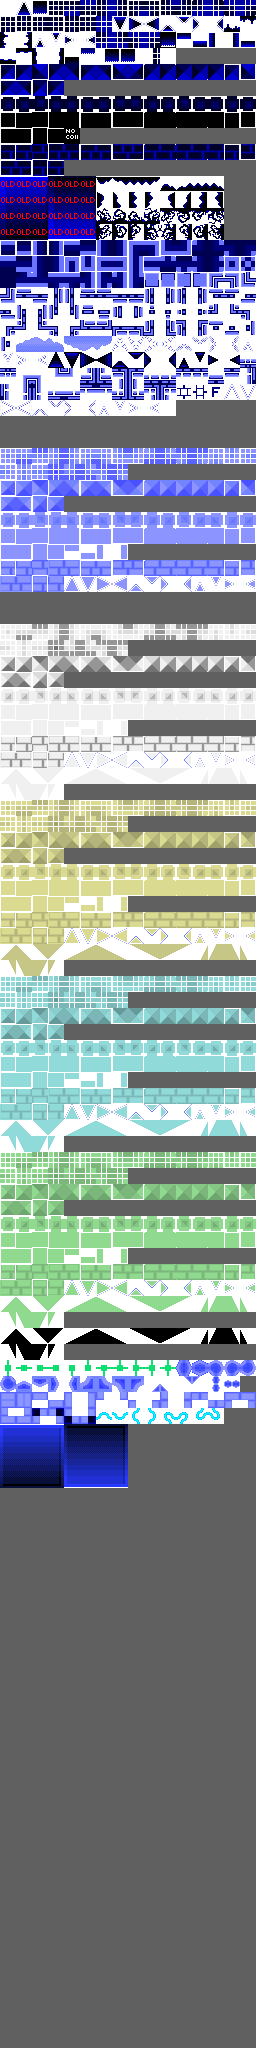
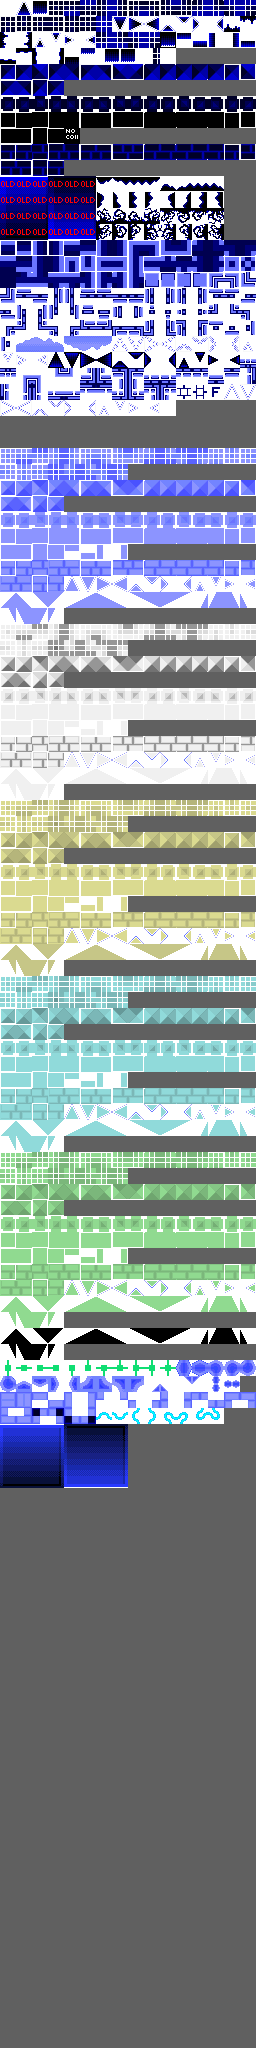
Add LBG slopes

Changed region(s): [[0.0, 0.2812, 1.0, 0.3125]]

diff --git a/src/metatiles.c b/src/metatiles.c
@@ -707,27 +707,27 @@ const SCR_ENTRY metatiles[][5] = {
     Metatile("LBG_MEDIUM_SPIKE_LEFT",   TILE(0x179, LBG_PAL, 0, 0), TILE(0x169, LBG_PAL, 0, 0), TILE(0x179, LBG_PAL, 0, V), TILE(0x169, LBG_PAL, 0, V), COL_MEDIUM_SPIKE_LEFT)
     Metatile("LBG_MEDIUM_SPIKE_RIGHT",  TILE(0x169, LBG_PAL, H, 0), TILE(0x179, LBG_PAL, H, 0), TILE(0x169, LBG_PAL, H, V), TILE(0x179, LBG_PAL, H, V), COL_MEDIUM_SPIKE_RIGHT)
 
-    Metatile("EMPTY",    TILE(0, 0, 0, 0), TILE(0, 0, 0, 0), TILE(0, 0, 0, 0), TILE(0, 0, 0, 0), COL_NONE) // 0x250
-    Metatile("EMPTY",    TILE(0, 0, 0, 0), TILE(0, 0, 0, 0), TILE(0, 0, 0, 0), TILE(0, 0, 0, 0), COL_NONE)
-    Metatile("EMPTY",    TILE(0, 0, 0, 0), TILE(0, 0, 0, 0), TILE(0, 0, 0, 0), TILE(0, 0, 0, 0), COL_NONE)
-    Metatile("EMPTY",    TILE(0, 0, 0, 0), TILE(0, 0, 0, 0), TILE(0, 0, 0, 0), TILE(0, 0, 0, 0), COL_NONE)
-    Metatile("EMPTY",    TILE(0, 0, 0, 0), TILE(0, 0, 0, 0), TILE(0, 0, 0, 0), TILE(0, 0, 0, 0), COL_NONE)
-    Metatile("EMPTY",    TILE(0, 0, 0, 0), TILE(0, 0, 0, 0), TILE(0, 0, 0, 0), TILE(0, 0, 0, 0), COL_NONE)
-    Metatile("EMPTY",    TILE(0, 0, 0, 0), TILE(0, 0, 0, 0), TILE(0, 0, 0, 0), TILE(0, 0, 0, 0), COL_NONE)
-    Metatile("EMPTY",    TILE(0, 0, 0, 0), TILE(0, 0, 0, 0), TILE(0, 0, 0, 0), TILE(0, 0, 0, 0), COL_NONE)
-    Metatile("EMPTY",    TILE(0, 0, 0, 0), TILE(0, 0, 0, 0), TILE(0, 0, 0, 0), TILE(0, 0, 0, 0), COL_NONE) // 0x258
-    Metatile("EMPTY",    TILE(0, 0, 0, 0), TILE(0, 0, 0, 0), TILE(0, 0, 0, 0), TILE(0, 0, 0, 0), COL_NONE)
-    Metatile("EMPTY",    TILE(0, 0, 0, 0), TILE(0, 0, 0, 0), TILE(0, 0, 0, 0), TILE(0, 0, 0, 0), COL_NONE)
-    Metatile("EMPTY",    TILE(0, 0, 0, 0), TILE(0, 0, 0, 0), TILE(0, 0, 0, 0), TILE(0, 0, 0, 0), COL_NONE)
-    Metatile("EMPTY",    TILE(0, 0, 0, 0), TILE(0, 0, 0, 0), TILE(0, 0, 0, 0), TILE(0, 0, 0, 0), COL_NONE)
-    Metatile("EMPTY",    TILE(0, 0, 0, 0), TILE(0, 0, 0, 0), TILE(0, 0, 0, 0), TILE(0, 0, 0, 0), COL_NONE)
-    Metatile("EMPTY",    TILE(0, 0, 0, 0), TILE(0, 0, 0, 0), TILE(0, 0, 0, 0), TILE(0, 0, 0, 0), COL_NONE)
-    Metatile("EMPTY",    TILE(0, 0, 0, 0), TILE(0, 0, 0, 0), TILE(0, 0, 0, 0), TILE(0, 0, 0, 0), COL_NONE)
+    Metatile("LBG_SLOPE_45_UP",      TILE(0x00, LBG_PAL, 0, 0), TILE(0x7b, LBG_PAL, 0, 0), TILE(0x7b, LBG_PAL, 0, 0), TILE(0x3a, LBG_PAL, 0, 0), COL_SLOPE_45_UP) // 0x250
+    Metatile("LBG_SLOPE_45_DOWN",    TILE(0x7b, LBG_PAL, H, 0), TILE(0x00, LBG_PAL, 0, 0), TILE(0x3a, LBG_PAL, H, 0), TILE(0x7b, LBG_PAL, H, 0), COL_SLOPE_45_DOWN)
+    Metatile("LBG_SLOPE_45_UP_UD",   TILE(0x7b, LBG_PAL, 0, V), TILE(0x3a, LBG_PAL, 0, V), TILE(0x00, LBG_PAL, 0, V), TILE(0x7b, LBG_PAL, 0, V), COL_SLOPE_45_UP_UD)
+    Metatile("LBG_SLOPE_45_DOWN_UD", TILE(0x3a, LBG_PAL, H, V), TILE(0x7b, LBG_PAL, H, V), TILE(0x7b, LBG_PAL, H, V), TILE(0x00, LBG_PAL, 0, V), COL_SLOPE_45_DOWN_UD) 
+    Metatile("LBG_22_UP_1",          TILE(0x00, LBG_PAL, 0, 0), TILE(0x00, LBG_PAL, 0, 0), TILE(0x7c, LBG_PAL, 0, 0), TILE(0x7d, LBG_PAL, 0, 0), COL_SLOPE_22_UP_1)
+    Metatile("LBG_22_UP_2",          TILE(0x7c, LBG_PAL, 0, 0), TILE(0x7d, LBG_PAL, 0, 0), TILE(0x3a, LBG_PAL, 0, 0), TILE(0x3a, LBG_PAL, 0, 0), COL_SLOPE_22_UP_2)
+    Metatile("LBG_22_DOWN_1",        TILE(0x7d, LBG_PAL, H, 0), TILE(0x7c, LBG_PAL, H, 0), TILE(0x3a, LBG_PAL, H, 0), TILE(0x3a, LBG_PAL, H, 0), COL_SLOPE_22_DOWN_1)
+    Metatile("LBG_22_DOWN_2",        TILE(0x00, LBG_PAL, H, 0), TILE(0x00, LBG_PAL, H, 0), TILE(0x7d, LBG_PAL, H, 0), TILE(0x7c, LBG_PAL, H, 0), COL_SLOPE_22_DOWN_2)
+    Metatile("LBG_22_UP_UD_1",       TILE(0x7c, LBG_PAL, 0, V), TILE(0x7d, LBG_PAL, 0, V), TILE(0x00, LBG_PAL, 0, V), TILE(0x00, LBG_PAL, 0, V), COL_SLOPE_22_UP_UD_1) // 0x258
+    Metatile("LBG_22_UP_UD_2",       TILE(0x3a, LBG_PAL, 0, V), TILE(0x3a, LBG_PAL, 0, V), TILE(0x7c, LBG_PAL, 0, V), TILE(0x7d, LBG_PAL, 0, V), COL_SLOPE_22_UP_UD_2)
+    Metatile("LBG_22_DOWN_UD_1",     TILE(0x3a, LBG_PAL, H, V), TILE(0x3a, LBG_PAL, H, V), TILE(0x7d, LBG_PAL, H, V), TILE(0x7c, LBG_PAL, H, V), COL_SLOPE_22_DOWN_UD_1)
+    Metatile("LBG_22_DOWN_UD_2",     TILE(0x7d, LBG_PAL, H, V), TILE(0x7c, LBG_PAL, H, V), TILE(0x00, LBG_PAL, H, V), TILE(0x00, LBG_PAL, H, V), COL_SLOPE_22_DOWN_UD_2)
+    Metatile("LBG_66_UP_1",          TILE(0x00, LBG_PAL, 0, 0), TILE(0x7f, LBG_PAL, 0, 0), TILE(0x00, LBG_PAL, 0, 0), TILE(0x7e, LBG_PAL, 0, 0), COL_SLOPE_66_UP_1) 
+    Metatile("LBG_66_UP_2",          TILE(0x7f, LBG_PAL, 0, 0), TILE(0x3a, LBG_PAL, 0, 0), TILE(0x7e, LBG_PAL, 0, 0), TILE(0x3a, LBG_PAL, 0, 0), COL_SLOPE_66_UP_2)
+    Metatile("LBG_66_DOWN_1",        TILE(0x3a, LBG_PAL, H, 0), TILE(0x7f, LBG_PAL, H, 0), TILE(0x3a, LBG_PAL, H, 0), TILE(0x7e, LBG_PAL, H, 0), COL_SLOPE_66_DOWN_1)
+    Metatile("LBG_66_DOWN_2",        TILE(0x7f, LBG_PAL, H, 0), TILE(0x00, LBG_PAL, H, 0), TILE(0x7e, LBG_PAL, H, 0), TILE(0x00, LBG_PAL, H, 0), COL_SLOPE_66_DOWN_2)
+    Metatile("LBG_66_UP_UD_1",       TILE(0x00, LBG_PAL, 0, V), TILE(0x7e, LBG_PAL, 0, V), TILE(0x00, LBG_PAL, 0, V), TILE(0x7f, LBG_PAL, 0, V), COL_SLOPE_66_UP_UD_1) // 0x260
+    Metatile("LBG_66_UP_UD_2",       TILE(0x7e, LBG_PAL, 0, V), TILE(0x3a, LBG_PAL, 0, V), TILE(0x7f, LBG_PAL, 0, V), TILE(0x3a, LBG_PAL, 0, V), COL_SLOPE_66_UP_UD_2)
+    Metatile("LBG_66_DOWN_UD_1",     TILE(0x3a, LBG_PAL, H, V), TILE(0x7e, LBG_PAL, H, V), TILE(0x3a, LBG_PAL, H, V), TILE(0x7f, LBG_PAL, H, V), COL_SLOPE_66_DOWN_UD_1)
+    Metatile("LBG_66_DOWN_UD_2",     TILE(0x7e, LBG_PAL, H, V), TILE(0x00, LBG_PAL, H, V), TILE(0x7f, LBG_PAL, H, V), TILE(0x00, LBG_PAL, H, V), COL_SLOPE_66_DOWN_UD_2)
 
-    Metatile("EMPTY",    TILE(0, 0, 0, 0), TILE(0, 0, 0, 0), TILE(0, 0, 0, 0), TILE(0, 0, 0, 0), COL_NONE) // 0x260
-    Metatile("EMPTY",    TILE(0, 0, 0, 0), TILE(0, 0, 0, 0), TILE(0, 0, 0, 0), TILE(0, 0, 0, 0), COL_NONE)
-    Metatile("EMPTY",    TILE(0, 0, 0, 0), TILE(0, 0, 0, 0), TILE(0, 0, 0, 0), TILE(0, 0, 0, 0), COL_NONE)
-    Metatile("EMPTY",    TILE(0, 0, 0, 0), TILE(0, 0, 0, 0), TILE(0, 0, 0, 0), TILE(0, 0, 0, 0), COL_NONE)
     Metatile("EMPTY",    TILE(0, 0, 0, 0), TILE(0, 0, 0, 0), TILE(0, 0, 0, 0), TILE(0, 0, 0, 0), COL_NONE)
     Metatile("EMPTY",    TILE(0, 0, 0, 0), TILE(0, 0, 0, 0), TILE(0, 0, 0, 0), TILE(0, 0, 0, 0), COL_NONE)
     Metatile("EMPTY",    TILE(0, 0, 0, 0), TILE(0, 0, 0, 0), TILE(0, 0, 0, 0), TILE(0, 0, 0, 0), COL_NONE)
